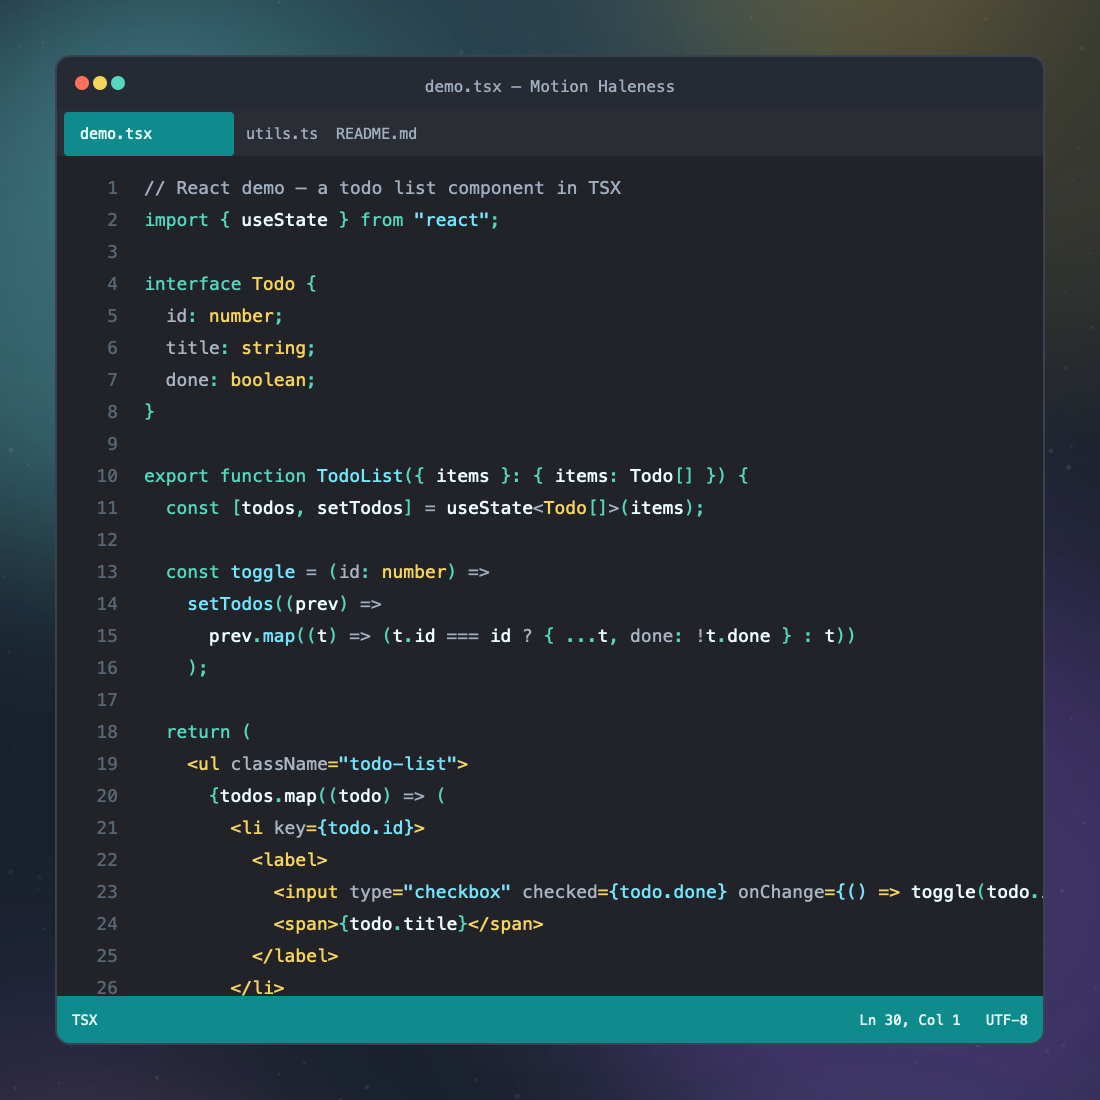
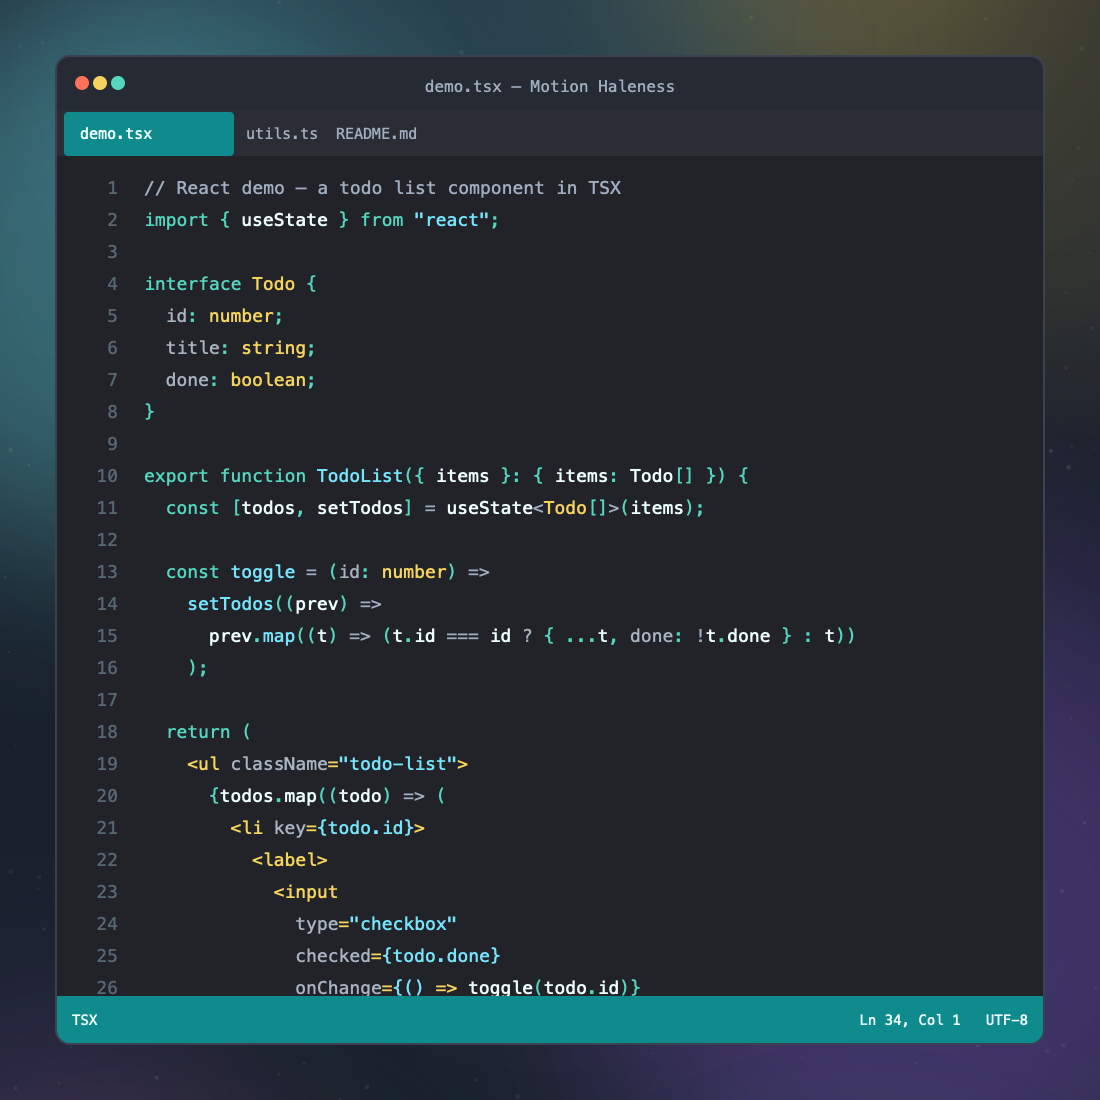
fix overflowing line in tsx screenshot

Changed region(s): [[0.2164, 0.8036, 0.7727, 0.9273], [0.8036, 0.8036, 0.9273, 0.8345]]

diff --git a/assets/examples/demo.tsx b/assets/examples/demo.tsx
@@ -20,7 +20,11 @@ export function TodoList({ items }: { items: Todo[] }) {
       {todos.map((todo) => (
         <li key={todo.id}>
           <label>
-            <input type="checkbox" checked={todo.done} onChange={() => toggle(todo.id)} />
+            <input
+              type="checkbox"
+              checked={todo.done}
+              onChange={() => toggle(todo.id)}
+            />
             <span>{todo.title}</span>
           </label>
         </li>
